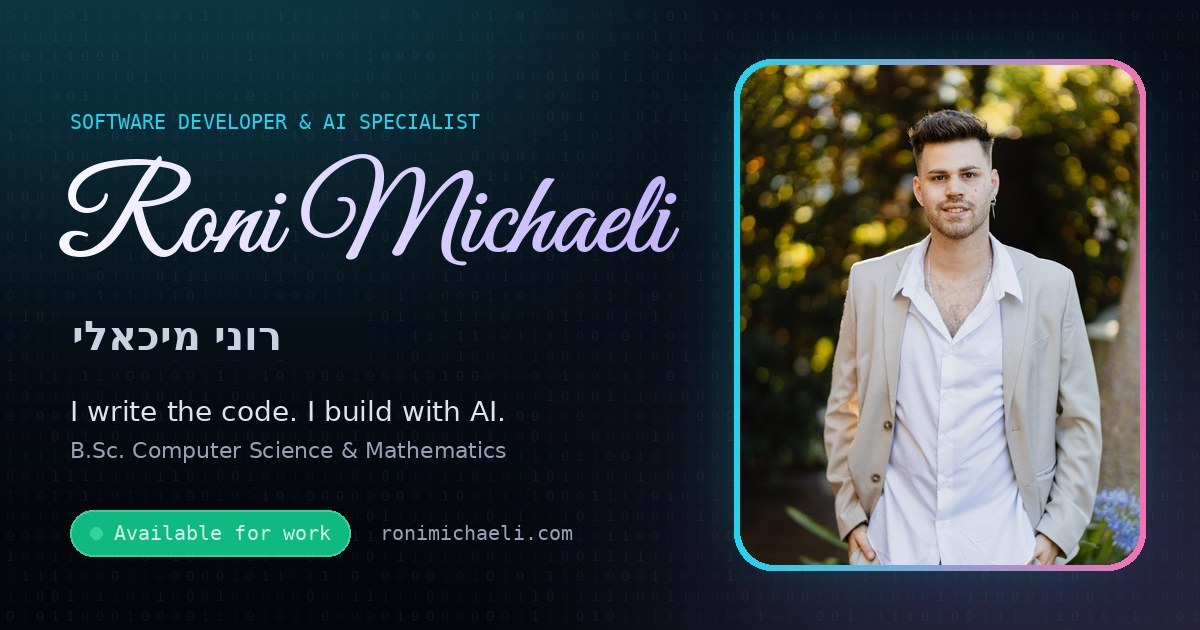
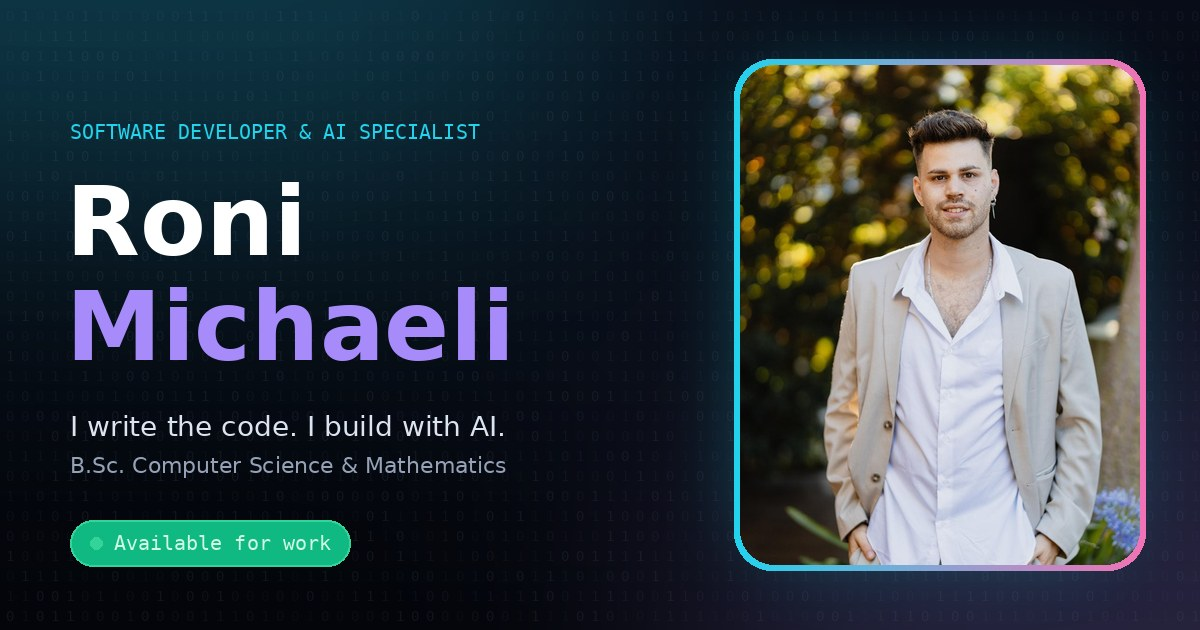
Keep Hebrew out of the visible site (metadata, hidden /he/ page and llms.txt only)
Claude-Session: https://claude.ai/code/session_01QBQwzDjTdBRGPafgUTLMnN

diff --git a/src/data/site.ts b/src/data/site.ts
@@ -2,7 +2,7 @@ export const site = {
   name: 'Roni Michaeli',
   role: 'Software Developer & AI Specialist',
   url: 'https://ronimichaeli.com',
-  title: 'Roni Michaeli · רוני מיכאלי — Software Developer & AI Specialist',
+  title: 'Roni Michaeli — Software Developer & AI Specialist',
   description:
     'Roni Michaeli is a software developer with a B.Sc. in Computer Science & Mathematics who writes his own code and specialises in building with AI — machine-learning models, games, web and mobile apps. Available for work.',
   location: 'Israel',
